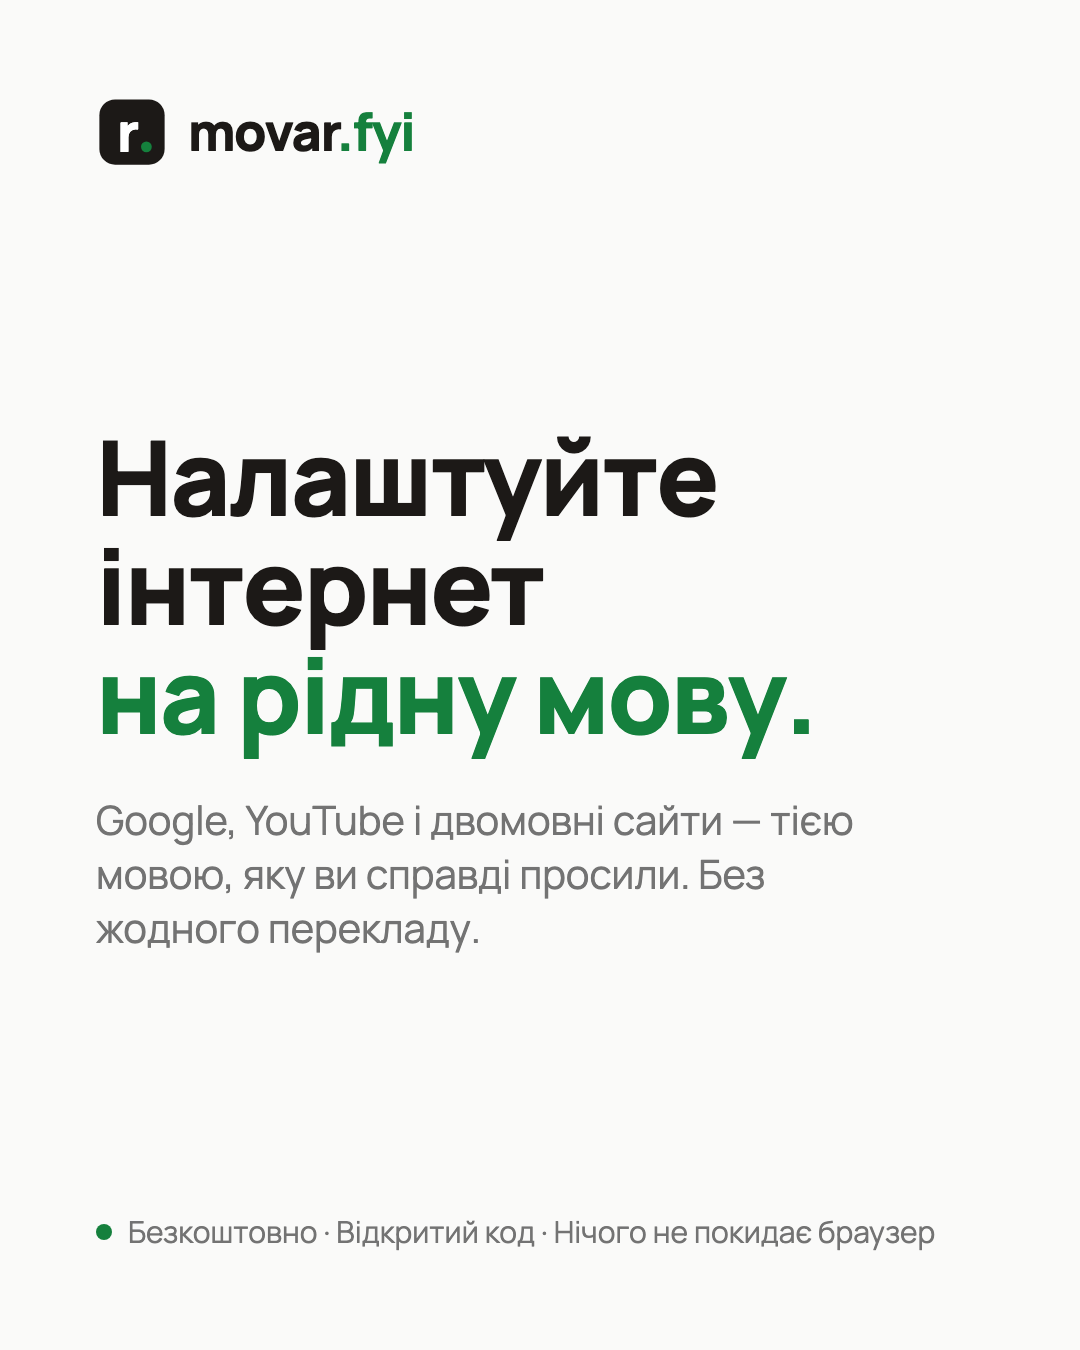
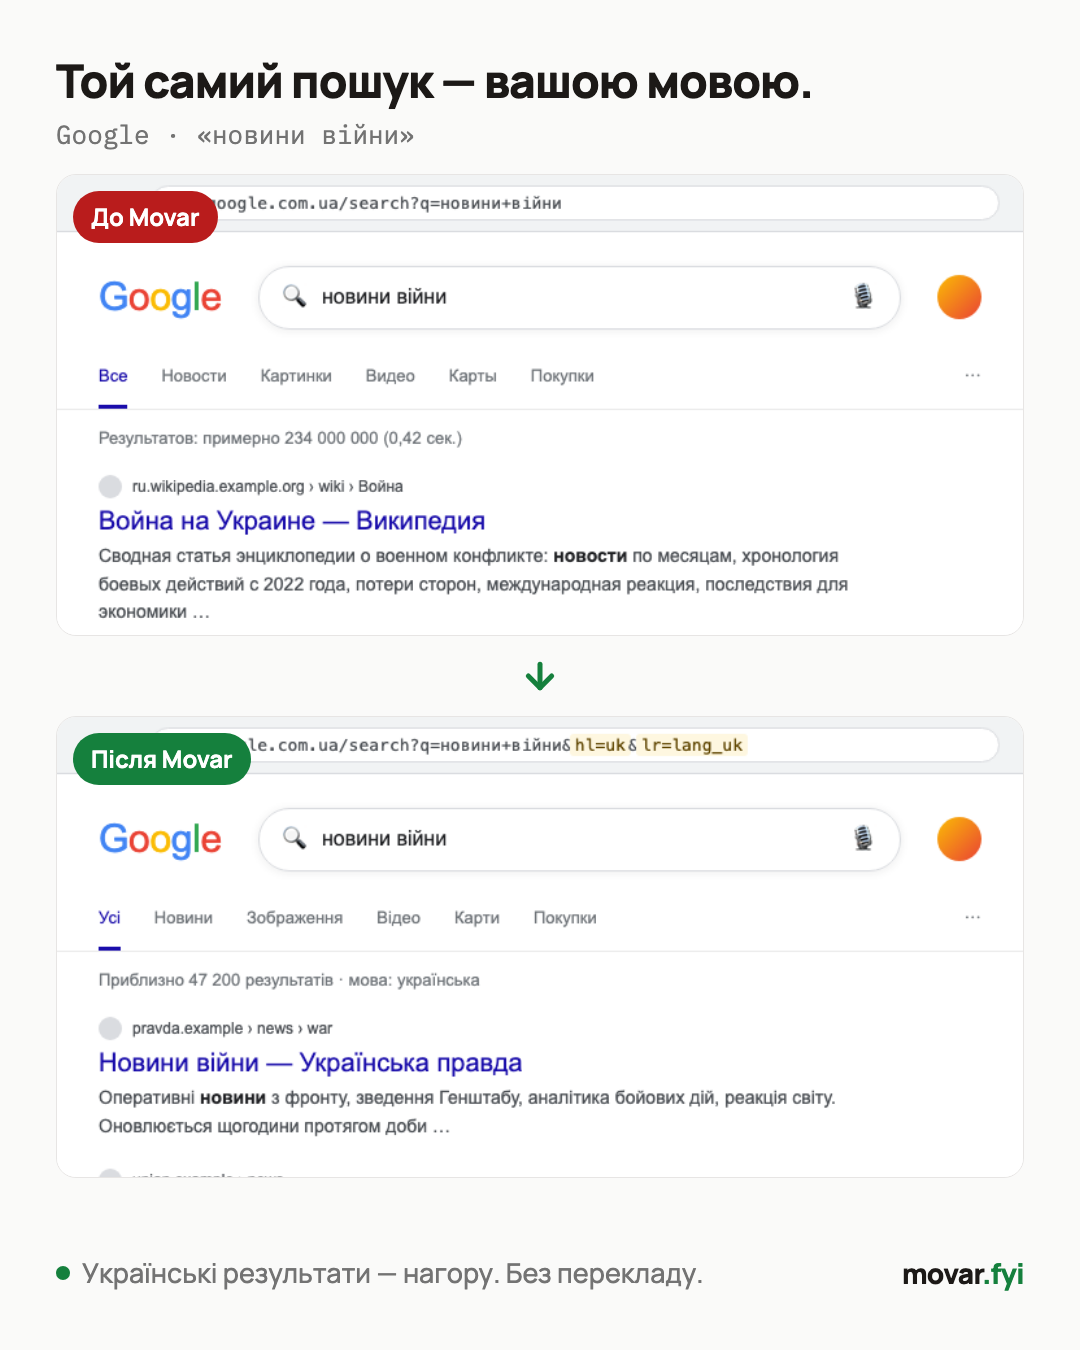
feat(social): make the post card a before/after demo, not a wordmark
The wordmark card duplicated the OG image and the account's own name, with
dead space and no information a caption + link preview don't already carry.
Replace it with a before/after of the real mechanism: the same Cyrillic
Google search returning all-Russian results vs. Ukrainian ones once Movar
appends hl=uk&lr=lang_uk (visible in the captured URL bar) — reusing the
committed marketing screenshots and the beforeAfter panel labels.

Serve public/ to the marketing Storybook via staticDirs so the capture can
load the screenshots. The post keeps the movar.fyi link (FB/Threads render
the OG preview + a clickable URL); the image slot now showcases how it works.

diff --git a/apps/marketing/src/social/SocialCard.tsx b/apps/marketing/src/social/SocialCard.tsx
@@ -1,7 +1,8 @@
 import type { CSSProperties, JSX } from 'react';
 
+import { ArrowDown } from 'lucide-react';
+
 import { colorLight, fontFamily, letterSpacing } from '@movar/theme';
-import { BrandMark } from '@movar/ui';
 
 import { strings } from '../i18n';
 import type { Locale } from '../i18n';
@@ -11,44 +12,59 @@ export interface SocialCardProps {
 }
 
 /**
- * Portrait social-post card — rendered at 1080×1350 (Instagram's 4:5 feed
- * ratio, also valid as a Threads / Facebook image post). Sibling of
- * `OgCard`, but where the OG card is a 1200×630 *link preview*, this PNG is
- * posted as the actual image, so it carries the full pitch (headline +
- * subhead + trust strip), not just a wordmark.
+ * Portrait social-post card (1080×1350) — a before/after **demo**, not a
+ * wordmark. It shows the real product mechanism so the image earns Instagram's
+ * mandatory media slot with information a caption + OG link preview can't carry:
+ * the same Cyrillic Google search returns all-Russian results ("Before Movar")
+ * vs. Ukrainian results once Movar appends its language hint ("After Movar" —
+ * note `hl=uk&lr=lang_uk` in the captured URL bar).
  *
- * `Marketing/Social/*` stories host the live component;
- * `apps/marketing/scripts/capture-social-cards.mts` screenshots each locale
- * into `public/social/<lang>/NN-<slug>.png`, which the social publish
- * pipeline (`scripts/social/`) uploads by its public `movar.fyi` URL.
+ * Reuses the committed marketing before/after screenshots
+ * (`public/screenshots/google-{without,with}-movar.png`, served to Storybook via
+ * `.storybook/main.ts` `staticDirs`) and the `beforeAfter` panel labels from
+ * i18n, so it can't drift from the on-site demo. Pinned to the light palette —
+ * social feeds render the raw PNG and ignore `prefers-color-scheme`.
  *
- * Pinned to the **light** palette (`colorLight.*`) for the same reason as
- * OgCard: social feeds render the raw PNG and never honour
- * `prefers-color-scheme`, so a dark-mode author would otherwise ship a card
- * nobody else sees. Because these are the constants the CSS is generated
- * from, the card can't drift from the live tokens.
+ * Captured by `scripts/capture-social-cards.mts` into `public/social/<lang>/`.
  */
 export function SocialCard({ lang = 'en' }: Readonly<SocialCardProps>): JSX.Element {
   const t = strings[lang].social;
+  const ba = strings[lang].beforeAfter;
   return (
     <div style={frameStyle}>
-      <div style={wordmarkStyle}>
-        <BrandMark size={72} />
-        <span style={wordmarkTextStyle}>
+      <div style={headerStyle}>
+        <p style={headlineStyle}>{t.headline}</p>
+        <p style={scenarioStyle}>{t.scenario}</p>
+      </div>
+
+      <Panel label={ba.without} tone={DANGER} src="/screenshots/google-without-movar.png" />
+      <div style={arrowRowStyle}>
+        <ArrowDown size={40} color={ACCENT} strokeWidth={3} />
+      </div>
+      <Panel label={ba.withMovar} tone={ACCENT} src="/screenshots/google-with-movar.png" />
+
+      <div style={footerStyle}>
+        <span style={takeawayStyle}>
+          <span style={dotStyle} />
+          {t.takeaway}
+        </span>
+        <span style={markStyle}>
           movar<span style={{ color: ACCENT }}>.fyi</span>
         </span>
       </div>
+    </div>
+  );
+}
 
-      <div style={bodyStyle}>
-        <p style={headlineLineStyle}>{t.headlineLine1}</p>
-        <p style={{ ...headlineLineStyle, color: ACCENT }}>{t.headlineLine2}</p>
-        <p style={subheadStyle}>{t.subhead}</p>
-      </div>
-
-      <div style={captionStyle}>
-        <span style={accentDotStyle} />
-        <span>{t.caption}</span>
-      </div>
+function Panel({
+  label,
+  tone,
+  src,
+}: Readonly<{ label: string; tone: string; src: string }>): JSX.Element {
+  return (
+    <div style={panelStyle}>
+      <img src={src} alt={label} style={imgStyle} />
+      <span style={{ ...labelStyle, background: tone }}>{label}</span>
     </div>
   );
 }
@@ -57,9 +73,8 @@ const BG = colorLight.bg;
 const INK = colorLight['ink-strong'];
 const INK_FAINT = colorLight['ink-faint'];
 const ACCENT = colorLight.accent;
-
-/** Uniform inset; the three stacked blocks distribute top / middle / bottom. */
-const PAD = 96;
+const DANGER = colorLight.danger;
+const BORDER = colorLight.border;
 
 const frameStyle: CSSProperties = {
   width: 1080,
@@ -71,62 +86,99 @@ const frameStyle: CSSProperties = {
   overflow: 'hidden',
   display: 'flex',
   flexDirection: 'column',
-  justifyContent: 'space-between',
-  padding: PAD,
+  gap: 20,
+  padding: 56,
   boxSizing: 'border-box',
 };
 
-const wordmarkStyle: CSSProperties = {
-  display: 'flex',
-  alignItems: 'center',
-  gap: 20,
-  color: INK,
-};
-
-const wordmarkTextStyle: CSSProperties = {
-  fontWeight: 800,
-  fontSize: 52,
-  letterSpacing: letterSpacing.display,
-  lineHeight: 1,
-};
-
-const bodyStyle: CSSProperties = {
+const headerStyle: CSSProperties = {
   display: 'flex',
   flexDirection: 'column',
+  gap: 8,
 };
 
-const headlineLineStyle: CSSProperties = {
+const headlineStyle: CSSProperties = {
   margin: 0,
   fontWeight: 800,
-  fontSize: 104,
-  lineHeight: 1.05,
+  fontSize: 46,
+  lineHeight: 1.1,
   letterSpacing: letterSpacing.display,
   color: INK,
 };
 
-const subheadStyle: CSSProperties = {
+const scenarioStyle: CSSProperties = {
   margin: 0,
-  marginTop: 44,
-  maxWidth: 820,
-  fontWeight: 400,
-  fontSize: 40,
-  lineHeight: 1.35,
+  fontFamily: fontFamily.mono,
+  fontSize: 26,
   color: INK_FAINT,
 };
 
-const captionStyle: CSSProperties = {
+const panelStyle: CSSProperties = {
+  position: 'relative',
+  width: '100%',
+  height: 462,
+  borderRadius: 20,
+  overflow: 'hidden',
+  border: `1px solid ${BORDER}`,
+  background: '#ffffff',
+  flex: '0 0 auto',
+};
+
+const imgStyle: CSSProperties = {
+  display: 'block',
+  width: '100%',
+  height: '100%',
+  objectFit: 'cover',
+  objectPosition: 'top',
+};
+
+const labelStyle: CSSProperties = {
+  position: 'absolute',
+  top: 16,
+  left: 16,
+  padding: '8px 18px',
+  borderRadius: 9999,
+  color: '#ffffff',
+  fontSize: 24,
+  fontWeight: 700,
+};
+
+const arrowRowStyle: CSSProperties = {
+  display: 'flex',
+  justifyContent: 'center',
+  alignItems: 'center',
+};
+
+const footerStyle: CSSProperties = {
   display: 'flex',
   alignItems: 'center',
+  justifyContent: 'space-between',
   gap: 16,
-  color: INK_FAINT,
-  fontSize: 30,
-  fontWeight: 400,
+  marginTop: 'auto',
 };
 
-const accentDotStyle: CSSProperties = {
+const takeawayStyle: CSSProperties = {
+  display: 'flex',
+  alignItems: 'center',
+  gap: 12,
+  color: INK_FAINT,
+  fontSize: 27,
+  fontWeight: 500,
+};
+
+const dotStyle: CSSProperties = {
   display: 'inline-block',
-  width: 16,
-  height: 16,
+  width: 14,
+  height: 14,
   borderRadius: 9999,
   background: ACCENT,
+  flex: '0 0 auto',
+};
+
+const markStyle: CSSProperties = {
+  fontWeight: 800,
+  fontSize: 28,
+  letterSpacing: letterSpacing.display,
+  color: INK,
+  flex: '0 0 auto',
 };

diff --git a/apps/marketing/src/i18n.ts b/apps/marketing/src/i18n.ts
@@ -226,18 +226,18 @@ interface OgStrings {
 
 interface SocialStrings {
   /**
-   * Copy for the portrait 1080×1350 social card, captured from the
-   * `Marketing/Social/*` Storybook stories into
-   * `apps/marketing/public/social/<lang>/`. Unlike the OG card (a link
-   * preview), this PNG is posted as a real image on Instagram / Threads /
-   * Facebook, so it carries the full pitch rather than just a wordmark.
+   * Copy for the portrait 1080×1350 social card (captured from the
+   * `Marketing/Social/*` stories into `apps/marketing/public/social/<lang>/`
+   * and posted as the image on Instagram / Threads / Facebook). The card is a
+   * before/after demo of the real product, so it needs only framing — the
+   * "Before Movar" / "After Movar" panel labels reuse `beforeAfter.*`.
    */
-  headlineLine1: string;
-  headlineLine2: string;
-  /** One short supporting line under the headline. */
-  subhead: string;
-  /** Bottom trust strip — keep it to three short claims. */
-  caption: string;
+  /** One-line framing above the before/after pair. */
+  headline: string;
+  /** The search scenario shown (engine · query). */
+  scenario: string;
+  /** Bottom takeaway line. */
+  takeaway: string;
 }
 
 interface WhyThisHappensSection {
@@ -572,11 +572,9 @@ const en: Strings = {
     caption: 'Free · Open source · No tracking',
   },
   social: {
-    headlineLine1: tagline.en.line1,
-    headlineLine2: tagline.en.line2,
-    subhead:
-      'Google, YouTube, and bilingual sites — in the language you actually asked for. Without translating a thing.',
-    caption: 'Free · Open source · Nothing leaves your browser',
+    headline: 'The same search, in your language.',
+    scenario: 'Google · “новини війни”',
+    takeaway: 'Ukrainian results, surfaced. Nothing translated.',
   },
   whyThisHappens: {
     pageTitle: 'Why this keeps happening — Movar',
@@ -1001,11 +999,9 @@ const uk: Strings = {
     caption: 'Безкоштовно · Відкритий код · Без стеження',
   },
   social: {
-    headlineLine1: tagline.uk.line1,
-    headlineLine2: tagline.uk.line2,
-    subhead:
-      'Google, YouTube і двомовні сайти — тією мовою, яку ви справді просили. Без жодного перекладу.',
-    caption: 'Безкоштовно · Відкритий код · Нічого не покидає браузер',
+    headline: 'Той самий пошук — вашою мовою.',
+    scenario: 'Google · «новини війни»',
+    takeaway: 'Українські результати — нагору. Без перекладу.',
   },
   whyThisHappens: {
     pageTitle: 'Чому так стається — Movar',

diff --git a/apps/marketing/.storybook/main.ts b/apps/marketing/.storybook/main.ts
@@ -17,6 +17,10 @@ import tailwindcss from '@tailwindcss/vite';
  */
 const config: StorybookConfig = {
   stories: ['../src/**/*.stories.@(ts|tsx|mdx)'],
+  // Serve the site's public/ so stories (e.g. the Social before/after card)
+  // can reference committed assets like /screenshots/*.png. The capture build
+  // copies these into storybook-static, so Playwright loads them too.
+  staticDirs: ['../public'],
   addons: ['@storybook/addon-docs'],
   framework: {
     name: '@storybook/react-vite',